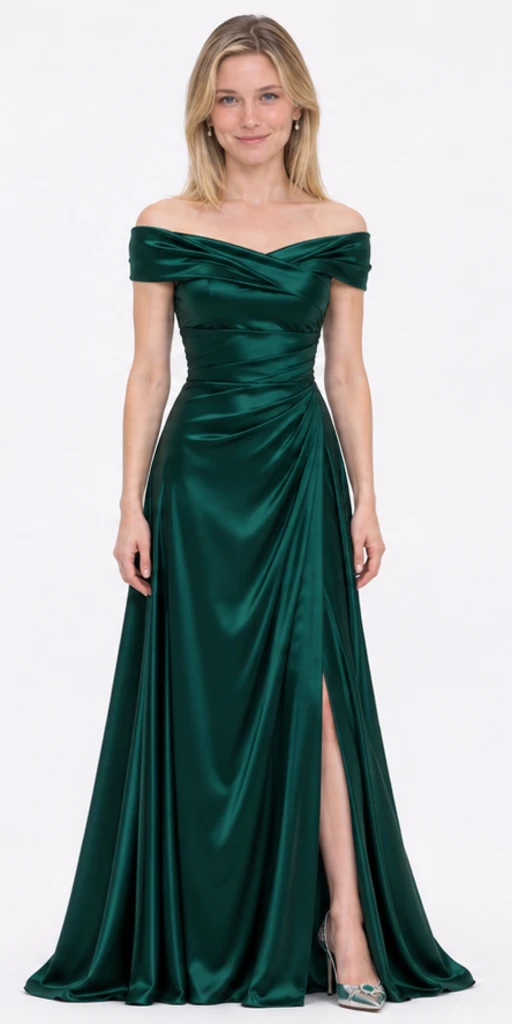
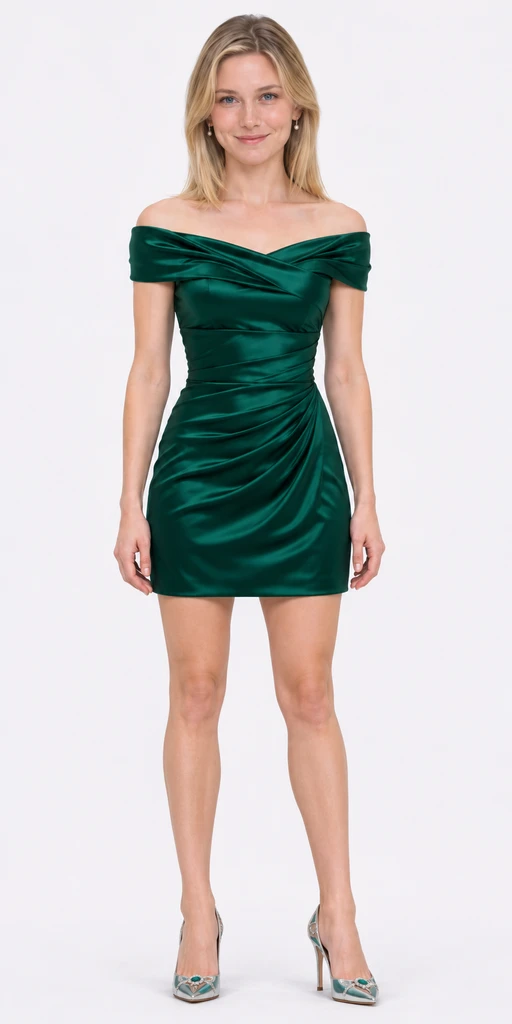
Shorten Smith evening dress to above-knee length

diff --git a/assets/profile/README.md b/assets/profile/README.md
@@ -42,5 +42,5 @@ These two portraits were regenerated individually, replacing the original sheet-
 ### 佐藤與史密斯造型更新
 
 - `avatar-jp`：尖臉、深色長髮與薄瀏海；深灰 OL 裙裝套裝、白襯衫、黑絲襪及黑色有跟鞋。
-- `avatar-us`：金色直髮、薄唇、微笑酒窩；翡翠綠露肩緞面及地晚禮服及銀色有跟鞋。
+- `avatar-us`：金色直髮、薄唇、微笑酒窩；翡翠綠露肩緞面膝上短版晚禮服及銀色有跟鞋。
 - 先更新頭像，再以新版頭像生成對應全身照；兩位仍為 25 歲，姓氏綁定不變。

diff --git a/assets/fullbody/README.md b/assets/fullbody/README.md
@@ -97,5 +97,5 @@
 ### 佐藤與史密斯造型更新
 
 - `avatar-jp`：尖臉、深色長髮與薄瀏海；深灰 OL 裙裝套裝、白襯衫、黑絲襪及黑色有跟鞋。
-- `avatar-us`：金色直髮、薄唇、微笑酒窩；翡翠綠露肩緞面及地晚禮服及銀色有跟鞋。
+- `avatar-us`：金色直髮、薄唇、微笑酒窩；翡翠綠露肩緞面膝上短版晚禮服及銀色有跟鞋。
 - 先更新頭像，再以新版頭像生成對應全身照；兩位仍為 25 歲，姓氏綁定不變。
